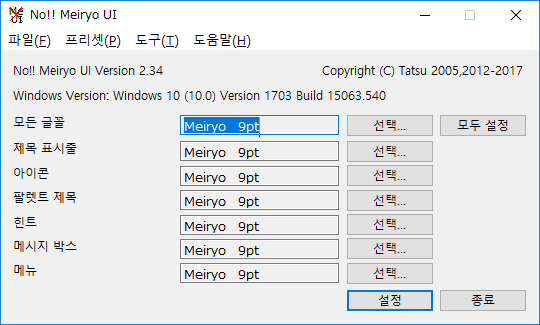
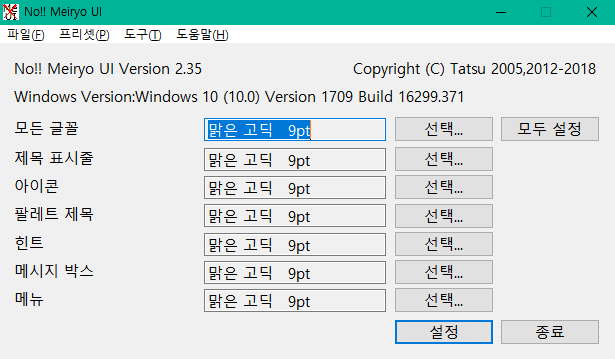
Add version 2.35's release note(Japanese, English) Change screenshot to version 2.35

diff --git a/help/ja-jp/contents/02.html b/help/ja-jp/contents/02.html
@@ -29,7 +29,7 @@ The sources for noMeiryoUI are distributed under the MIT open source license
 </p>
 
 <p>
-<img src="noMeiryoUI.PNG" width="539" height="330" alt="Meiryo UIも大っきらい!!画面"><br>
+<img src="noMeiryoUI.PNG" width="615" height="359" alt="Meiryo UIも大っきらい!!画面"><br>
 </p>
 </div>
 <hr>
@@ -64,7 +64,7 @@ The sources for noMeiryoUI are distributed under the MIT open source license
 <h2><a id="FontSel">2.4 フォントの選択</a></h2>
 <p>
 　フォント名の横にある選択ボタンを押下すると下記のフォント選択ダイアログが表示されます。<br>
-<img src="FontSel.PNG" width="516" height="292" alt="フォント選択ダイアログ"><br>
+<img src="FontSel.PNG" width="603" height="335" alt="フォント選択ダイアログ"><br>
 </p>
 <p>
 　フォント選択ダイアログでは以下の指定を行うことができます。<br>

diff --git a/help/ko-kr/contents/02.html b/help/ko-kr/contents/02.html
@@ -29,7 +29,7 @@ The sources for noMeiryoUI are distributed under the MIT open source license
 </p>
 
 <p>
-<img src="noMeiryoUI.PNG" width="540" height="325" alt="No!! Meiryo UI 화면"><br>
+<img src="noMeiryoUI.PNG" width="615" height="359" alt="No!! Meiryo UI 화면"><br>
 </p>
 </div>
 <hr>
@@ -62,7 +62,7 @@ The sources for noMeiryoUI are distributed under the MIT open source license
 <h2><a id="FontSel">2.4 글꼴 선택</a></h2>
 <p>
 　글꼴 이름 옆에 있는 [선택...] 버튼을 누르면 아래와 같은 글꼴 선택 대화상자가 표시됩니다.<br>
-<img src="FontSel.PNG" width="530" height="301" alt="글꼴 선택 대화상자"><br>
+<img src="FontSel.PNG" width="603" height="335" alt="글꼴 선택 대화상자"><br>
 </p>
 <p>
 　글꼴 선택 대화상자에서는 다음과 같은 값을 설정할 수 있습니다.<br>

diff --git a/help/en-us/contents/02.html b/help/en-us/contents/02.html
@@ -28,13 +28,13 @@ This icon(<img src="icon.png" width="32" height="32">).<br>
 
 <p>
 And, below window is displayed.<br>
-<img src="noMeiryoUI.PNG" width="537" height="316"><br>
+<img src="noMeiryoUI.PNG" width="615" height="359"><br>
 Push select... button to set user interface element.<br>
 </p>
 
 <p>
 When you push select... button, this dialog is displayed.<br>
-<img src="FontSel.PNG" width="527" height="293"><br>
+<img src="FontSel.PNG" width="603" height="335"><br>
 </p>
 <p>
 Choice font face, font size, font style, charset, and push OK button.

diff --git a/help/ja-jp/contents/03.html b/help/ja-jp/contents/03.html
@@ -21,9 +21,11 @@ The sources for noMeiryoUI are distributed under the MIT open source license
 <h1>3.製作履歴</h1>
 
 <div class="chapter">
-<h2>2018/03/?? Version 2.35</h2>
+<h2>2018/04/?? Version 2.35</h2>
 <ul>
 <li>表示言語だけ変更して、システムロケールを変更しない場合に表示言語で表示されるようにしました。</li>
+<li>様々な方向けにフォントサイズを大きくしました。</li>
+<li>deVbug様のご協力により、韓国語訳が追加されました。</li>
 </ul>
 </div>
 <hr>

diff --git a/help/en-us/contents/03.html b/help/en-us/contents/03.html
@@ -21,9 +21,11 @@ The sources for noMeiryoUI are distributed under the MIT open source license
 <h1>3.History</h1>
 
 <div class="chapter">
-<h2>03//2018 Version 2.35</h2>
+<h2>04//2018 Version 2.35</h2>
 <ul>
 <li>Now display language is displayed by system display language without system locale.</li>
+<li>For various people,font size is larger than previous version.</li>
+<li>Thanks for deVbug's cooperation,Korean language added.</li>
 </ul>
 </div>
 <hr>
